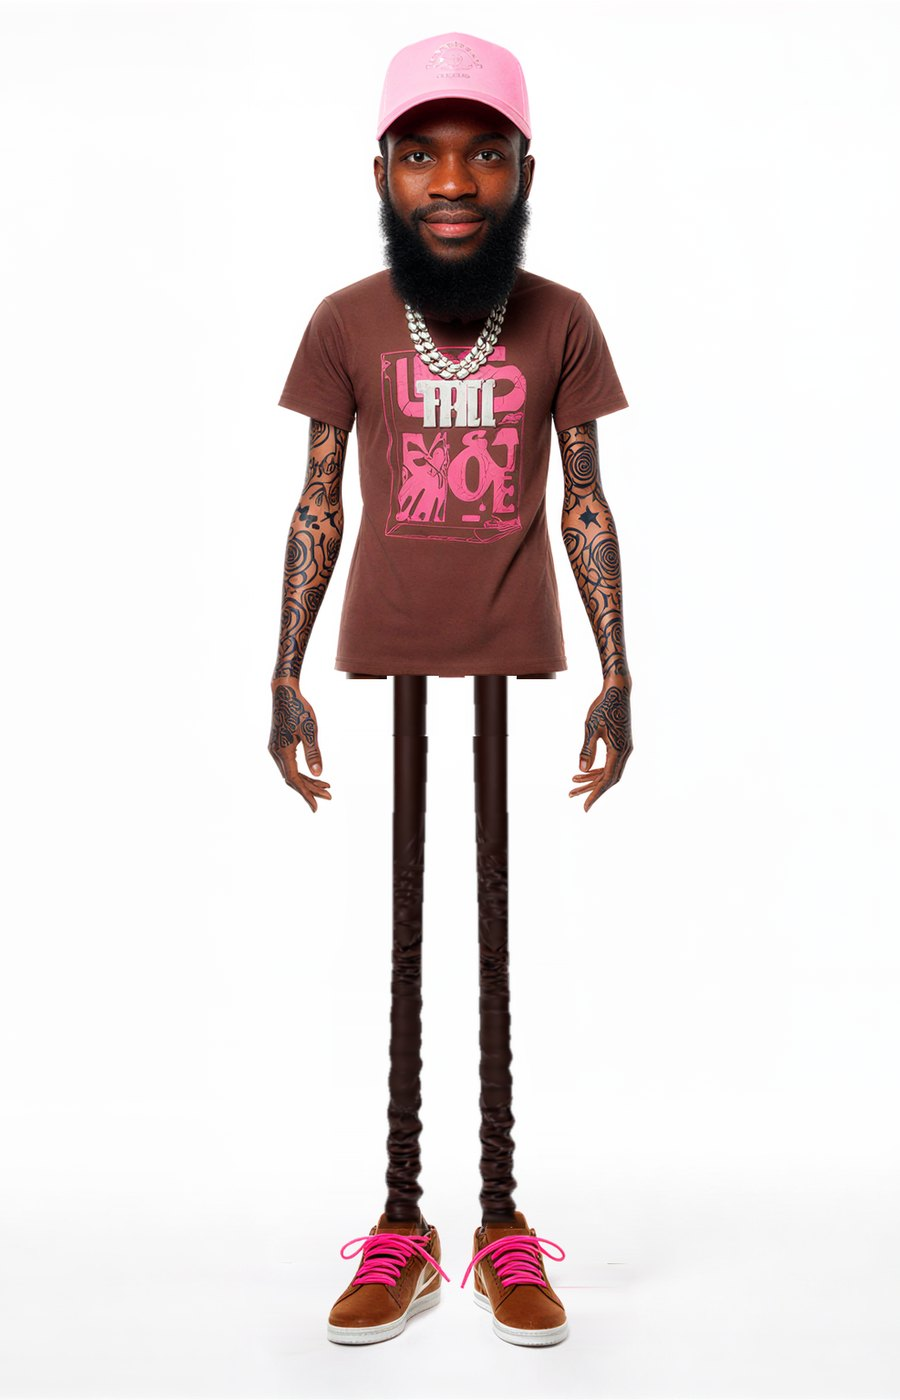
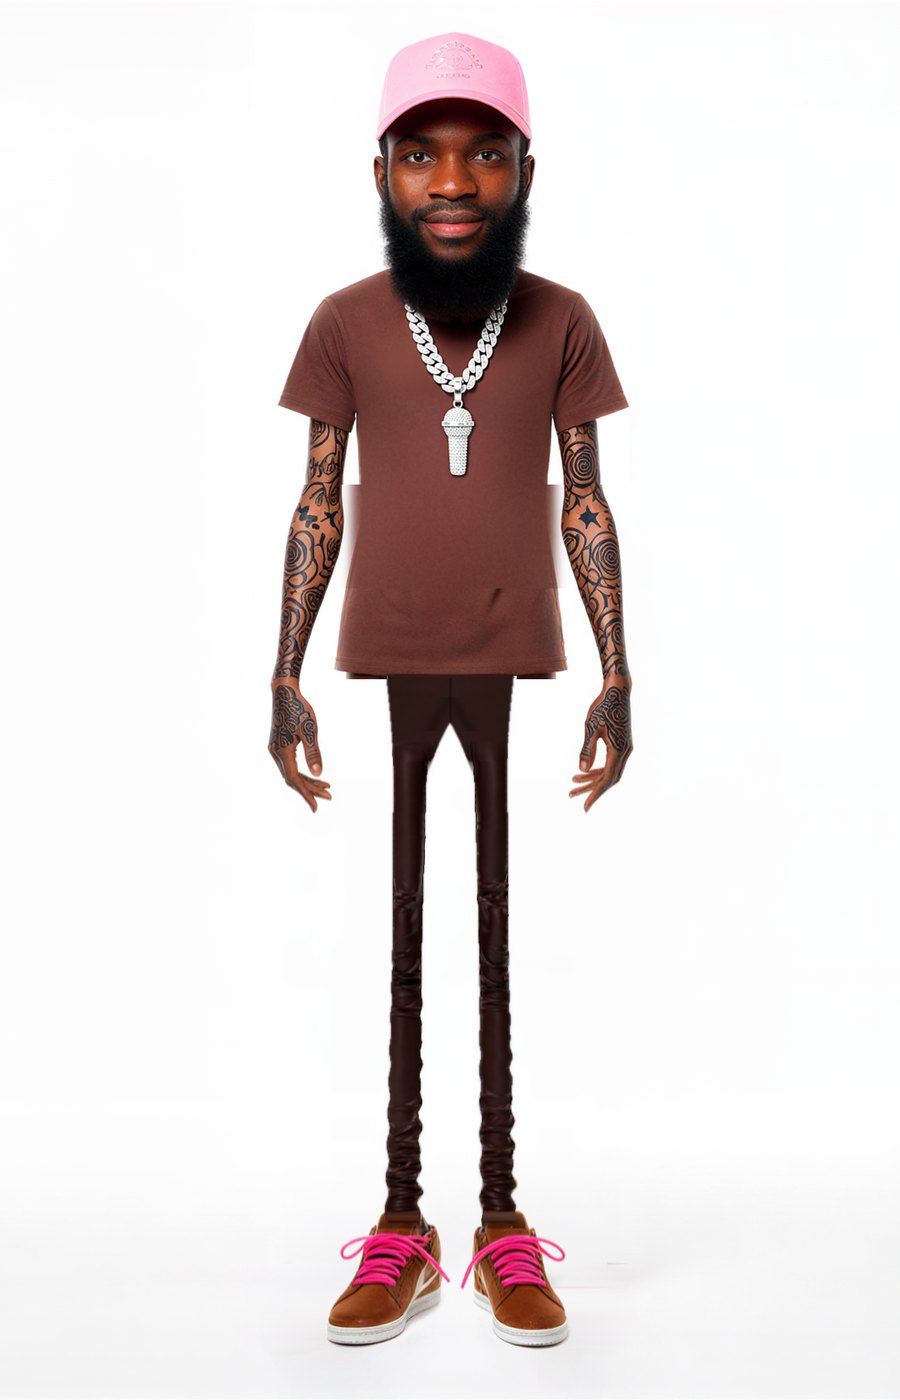
AI Influencer: Chain pendant picker (lion, cross, 100, AK, mic, headphones, turntables, custom name) and Peace Sign Slim hips plus iced mic pendant
Claude-Session: https://claude.ai/code/session_01Pn4hNDRWRVhm438Rr9UBh8

diff --git a/js/influencer.js b/js/influencer.js
@@ -136,7 +136,17 @@
       ["none", "None", "", ""], ["glasses", "Glasses", "", "glasses"], ["headphones", "Headphones", "", "headphones around the neck"],
       ["jewelry", "Jewelry", "", "statement jewelry"], ["chain", "Iced-out chain", "", "an iced-out diamond chain"],
       ["cap", "Fitted cap", "", "a fitted baseball cap"], ["backcap", "Backwards cap", "", "a backwards baseball cap"],
-      ["hat", "Hat", "", "a hat"], ["bag", "Bag", "", "a designer bag"], ["earmuffs", "Earmuffs", "", "fluffy oversized earmuffs"], ["shades", "Sport shades", "", "black wraparound sport sunglasses"]] }
+      ["hat", "Hat", "", "a hat"], ["bag", "Bag", "", "a designer bag"], ["earmuffs", "Earmuffs", "", "fluffy oversized earmuffs"], ["shades", "Sport shades", "", "black wraparound sport sunglasses"]] },
+    { id: "pendant", label: "Chain pendant", max: 1, visual: true, options: [
+      ["none", "None", "", ""],
+      ["lion", "Gold lion", "", "a big solid yellow-gold lion head pendant with a detailed mane and diamond eyes, hanging from the center of a thick iced-out diamond cuban link chain on a big diamond bail, every diamond individually set and sparkling"],
+      ["cross", "Iced cross", "", "a big iced-out diamond cross pendant hanging from the center of a thick iced-out diamond cuban link chain on a big diamond bail, every diamond individually set and sparkling"],
+      ["hundred", "100 emoji", "", "a pendant shaped like the red 100 emoji, double underlined, paved in red rubies and white diamonds, hanging from the center of a thick iced-out diamond cuban link chain on a big diamond bail, every diamond individually set and sparkling"],
+      ["ak", "AK", "", "an iced-out diamond AK-47 rifle pendant hanging from the center of a thick iced-out diamond cuban link chain on a big diamond bail, every diamond individually set and sparkling"],
+      ["mic", "Microphone", "", "an iced-out diamond vintage microphone pendant hanging from the center of a thick iced-out diamond cuban link chain on a big diamond bail, every diamond individually set and sparkling"],
+      ["headphones", "Headphones", "", "an iced-out diamond headphones pendant hanging from the center of a thick iced-out diamond cuban link chain on a big diamond bail, every diamond individually set and sparkling"],
+      ["turntables", "Turntables", "", "an iced-out diamond DJ turntable pendant with a black vinyl record, hanging from the center of a thick iced-out diamond cuban link chain on a big diamond bail, every diamond individually set and sparkling"],
+      ["name", "Name pendant", "", "NAME"]] }
   ];
 
   var VIEWS = {
@@ -209,7 +219,7 @@
       x: "short stocky man, gold teeth, brown suede zip-up jacket over a brown hoodie and a cartoon graphic t-shirt, dark distressed jeans, iced-out rings and watch, holding a phone to his ear" },
     { id: "atm-pale", name: "ATM Stick Boy", tier: "freak", view: "card", t: { gender: ["male"], build: ["skinny"], arms: ["stick"], legs: ["stick"], hair: ["buzz"], haircolor: ["platinum"], ethnicity: ["african"], age: ["adult"], skin: ["porcelain"], distinctive: ["facetattoo"], accessories: ["cap"] },
       x: "African man with albinism: very pale pinkish-white skin with no brown pigment anywhere on his face, neck, arms or legs, pale blonde eyebrows and lashes, light eyes, black fitted baseball cap, plain black t-shirt, black shorts, thin silver cross necklace, black high-top sneakers, small face tattoos" },
-    { id: "peace-slim", name: "Peace Sign Slim", tier: "freak", view: "card", t: { gender: ["male"], build: ["slim"], arms: ["stick"], legs: ["stilts"], headsize: ["big"], hair: ["short"], haircolor: ["black"], ethnicity: ["african"], age: ["adult"], skin: ["deep"], facialhair: ["beard"], accessories: ["cap", "chain"] },
+    { id: "peace-slim", name: "Peace Sign Slim", tier: "freak", view: "card", t: { gender: ["male"], build: ["slim"], arms: ["stick"], legs: ["stilts"], headsize: ["big"], hair: ["short"], haircolor: ["black"], ethnicity: ["african"], age: ["adult"], skin: ["deep"], facialhair: ["beard"], accessories: ["cap"], pendant: ["mic"] },
       x: "pink fitted baseball cap, chocolate-brown graphic t-shirt with a big pink print, skinny dark-brown leather stacked pants, brown sneakers with pink laces, tattooed forearm, smiling, throwing a peace sign" },
     { id: "heavyweight", name: "Heavyweight", tier: "total", view: "card", t: { gender: ["male"], build: ["obese"], arms: ["heavy"], legs: ["stick"], hair: ["dyedtips"], haircolor: ["black"], ethnicity: ["african"], age: ["adult"], skin: ["brown"], accessories: ["chain"] },
       x: "black graphic t-shirt riding up over the huge bare belly, light-wash ripped skinny jeans on very thin legs, black spiky slides, tattooed forearms, holding a white double foam cup and a blue sports drink" },
@@ -330,7 +340,9 @@
           : '<div class="inf-opts">' + opts.map(function (o) {
               var on = (state.traits[g.id] || []).indexOf(o[0]) > -1;
               return '<button type="button" class="inf-opt' + (on ? " is-on" : "") + '" data-g="' + g.id + '" data-o="' + o[0] + '" aria-pressed="' + on + '">' + esc(o[1]) + "</button>";
-            }).join("")) + "</div></div></section>";
+            }).join("")) + "</div>" +
+        (g.id === "pendant" ? '<label class="inf-pname"' + ((state.traits.pendant || [])[0] === "name" ? "" : " hidden") + '>Name on the pendant <input id="infPendantName" type="text" maxlength="14" placeholder="e.g. CRISS P" value="' + esc(state.pendantName || "") + '"></label>' : "") +
+        "</div></section>";
     });
     $("groups").innerHTML = html;
   }
@@ -385,6 +397,7 @@
         b.classList.toggle("is-on", on); b.setAttribute("aria-pressed", on);
       });
       sec.querySelector(".inf-group-picked").textContent = cur.map(function (id) { return labelOf(g, id); }).join(", ");
+      var pn = sec.querySelector(".inf-pname"); if (pn) pn.hidden = cur[0] !== "name";
     }
     renderPicked();
   }
@@ -437,7 +450,13 @@
   }
 
   // ------------------------------------------------------------ prompt
-  function phrase(gid, oid) { var g = groupById(gid), o = g && optOf(g, oid); return o ? o[3] : ""; }
+  function phrase(gid, oid) {
+    if (gid === "pendant" && oid === "name") {
+      var nm = (state.pendantName || $("infName").value || "ICY").replace(/["<>]/g, "").trim().slice(0, 14) || "ICY";
+      return 'a big custom name pendant spelling "' + nm + '" in bold cursive script letters, white gold paved in diamonds, hanging from a thick iced-out diamond cuban link chain on a big diamond bail, every diamond sparkling';
+    }
+    var g = groupById(gid), o = g && optOf(g, oid); return o ? o[3] : "";
+  }
   function pickOne(gid) { var v = state.traits[gid]; return v && v.length ? phrase(gid, v[0]) : ""; }
   function pickAll(gid) { return (state.traits[gid] || []).map(function (o) { return phrase(gid, o); }).filter(Boolean); }
 
@@ -488,6 +507,8 @@
     if (feats.length) parts.push((t.human ? "with " : "the " + t.animal + " face has ") + feats.join(", "));
     if (shaven) parts.push("clean-shaven");
     var acc = pickAll("accessories");
+    var pend = pickOne("pendant");
+    if (pend) acc = acc.filter(function (a) { return a !== "an iced-out diamond chain"; }).concat([pend]);
     if (acc.length) parts.push("accessorized with " + acc.join(", "));
     if (extraRaw && !lead) parts.push(extraRaw);
     parts.push(V.tail);
@@ -837,6 +858,9 @@
 
   // ------------------------------------------------------------ wiring
   function wire() {
+    $("groups").addEventListener("input", function (e) {
+      if (e.target && e.target.id === "infPendantName") state.pendantName = e.target.value;
+    });
     $("groups").addEventListener("click", function (e) {
       var head = e.target.closest("[data-toggle]");
       if (head) {

diff --git a/css/influencer.css b/css/influencer.css
@@ -686,3 +686,7 @@
 .inf-wall.is-sheets .inf-tile { margin-bottom: 0 !important; }
 #presetWall.is-sheets .inf-tile img { object-position: center; }
 @media (max-width: 600px) { .is-full .inf-wall.is-sheets, .inf-wall.is-sheets { grid-template-columns: 1fr; gap: 8px; } }
+.inf-pname{display:flex;flex-direction:column;gap:6px;margin-top:10px;font-size:13px;color:var(--color-text-muted)}
+.inf-pname[hidden]{display:none}
+.inf-pname input{width:100%;padding:9px 11px;border-radius:10px;border:1px solid rgba(255,255,255,.14);background:rgba(255,255,255,.05);color:inherit;font:inherit;font-size:14px;letter-spacing:.04em}
+.inf-pname input:focus{outline:none;border-color:rgba(255,255,255,.4)}
